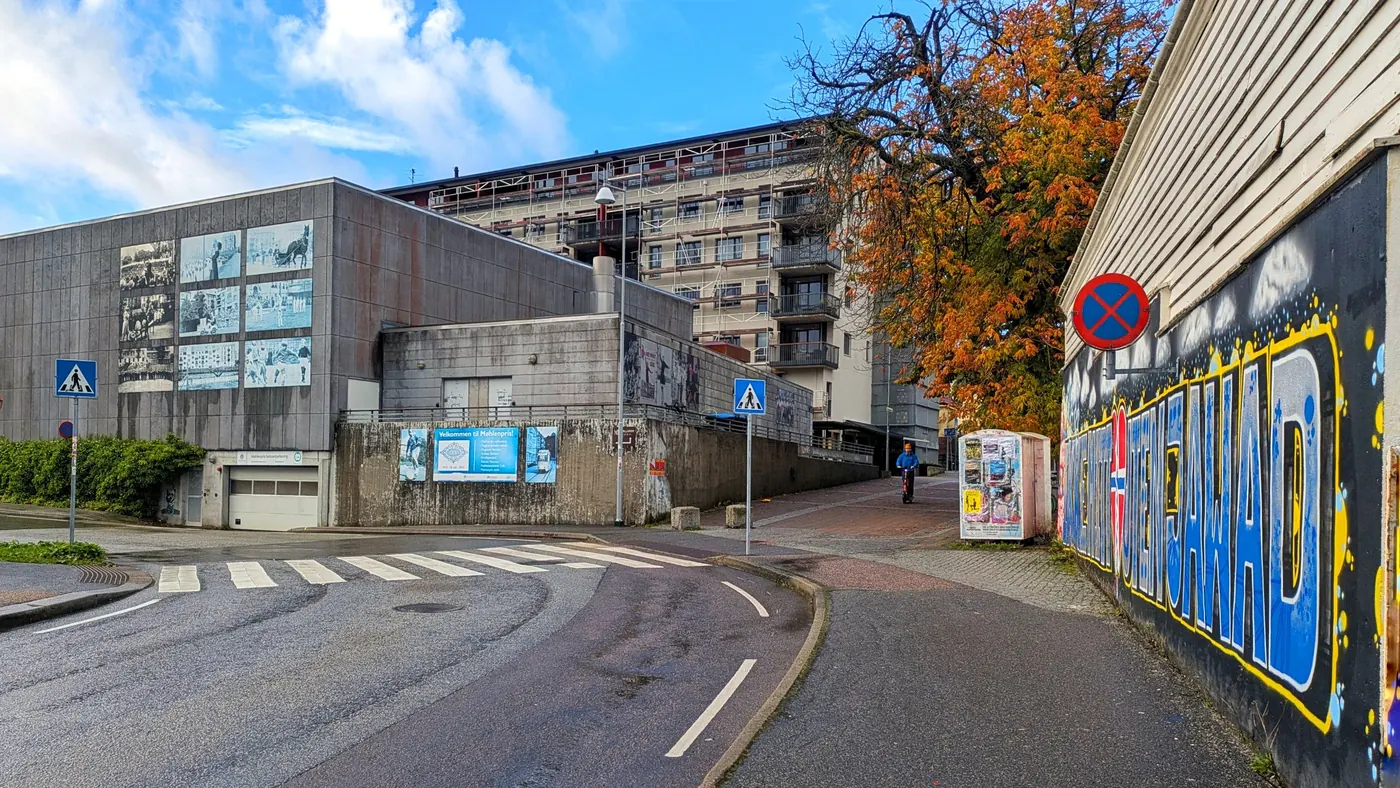
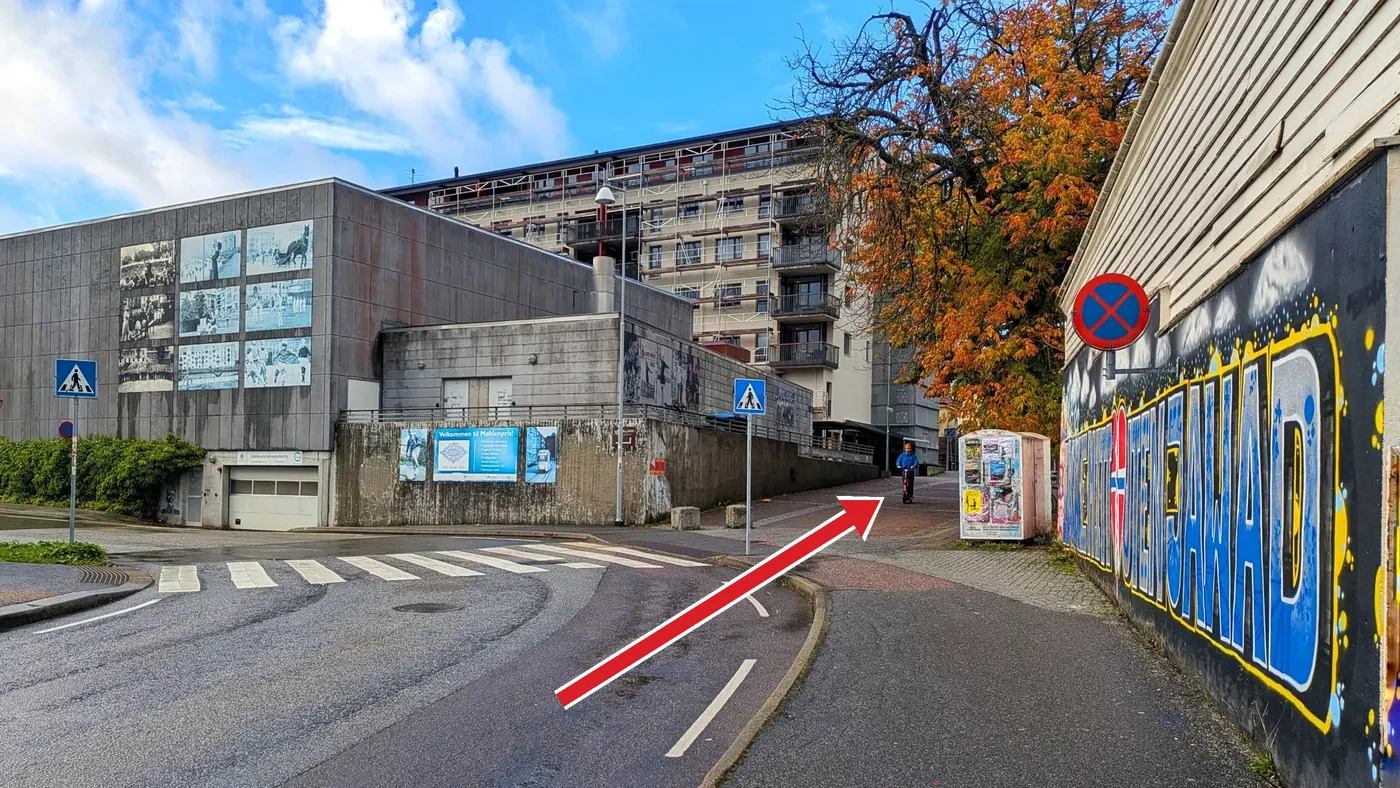
New route maps, fixed address

Changed region(s): [[0.3993, 0.6091, 0.645, 0.9137]]

diff --git a/src/app/components/StudioInfo.tsx b/src/app/components/StudioInfo.tsx
@@ -23,14 +23,14 @@ const T = {
     findTitle: "Slik finner du oss",
     findSub: "Møllaren Frivilligsentral, Wolffs gate 12, Bergen",
     routeTitle: "Velg hvor du kommer fra",
-    mapCaps: { florida: "Kart: gangvei fra Florida (ca. 9 min)", moehlenpris: "Kart: gangvei fra Møhlenpris (ca. 6 min)" },
+    mapCaps: { florida: "Fra Florida: langs veien ca. 580 m · 7 min (hel linje) – gjennom parken ca. 680 m · 8 min (stiplet)", moehlenpris: "Fra Møhlenpris: ca. 440 m · 5 min" },
     tabs: ["Fra Florida", "Fra Møhlenpris"],
     routeCaps: {
-      florida: ["Gangveien opp mot Vitalitetsenteret", "Krysset og gangveien opp til inngangen"],
-      moehlenpris: ["Hjørnet ved Vitalitetsenteret"],
+      florida: ["Gå opp gangveien", "Ved krysset: fortsett opp"],
+      moehlenpris: ["Gå mot Vitalitetsenteret"],
     },
     insideTitle: "Inne i bygget",
-    steps: ["Inngang A – Vitalitetsenteret", "Gå gjennom gangen", "Døren til salen", "Salen"],
+    steps: ["Inngang A", "Gå gjennom gangen", "Døren til salen", "Salen"],
     zoomHint: "Trykk på et bilde for å forstørre",
     close: "Lukk",
     fbTitle: "Bli med i Facebook-gruppen",
@@ -50,14 +50,14 @@ const T = {
     findTitle: "How to find us",
     findSub: "Møllaren Frivilligsentral, Wolffs gate 12, Bergen",
     routeTitle: "Choose where you are coming from",
-    mapCaps: { florida: "Map: walking route from Florida (approx. 9 min)", moehlenpris: "Map: walking route from Møhlenpris (approx. 6 min)" },
+    mapCaps: { florida: "From Florida: along the road approx. 580 m · 7 min (solid line) – through the park approx. 680 m · 8 min (dashed)", moehlenpris: "From Møhlenpris: approx. 440 m · 5 min" },
     tabs: ["From Florida", "From Møhlenpris"],
     routeCaps: {
-      florida: ["The footpath up towards Vitalitetsenteret", "The crossing and the footpath up to the entrance"],
-      moehlenpris: ["The corner by Vitalitetsenteret"],
+      florida: ["Walk up the footpath", "At the crossing: keep going up"],
+      moehlenpris: ["Walk towards Vitalitetsenteret"],
     },
     insideTitle: "Inside the building",
-    steps: ["Entrance A – Vitalitetsenteret", "Walk through the corridor", "The door to the hall", "The hall"],
+    steps: ["Entrance A", "Walk through the corridor", "The door to the hall", "The hall"],
     zoomHint: "Tap a photo to enlarge it",
     close: "Close",
     fbTitle: "Join the Facebook group",
@@ -77,14 +77,14 @@ const T = {
     findTitle: "Як нас знайти",
     findSub: "Møllaren Frivilligsentral, Wolffs gate 12, Берген",
     routeTitle: "Оберіть, звідки ви йдете",
-    mapCaps: { florida: "Мапа: пішки від Florida (близько 9 хв)", moehlenpris: "Мапа: пішки від Møhlenpris (близько 6 хв)" },
+    mapCaps: { florida: "Від Florida: дорогою ≈ 580 м · 7 хв (суцільна лінія) – через парк ≈ 680 м · 8 хв (пунктир)", moehlenpris: "Від Møhlenpris: ≈ 440 м · 5 хв" },
     tabs: ["Від Florida", "Від Møhlenpris"],
     routeCaps: {
-      florida: ["Пішохідна доріжка вгору до Vitalitetsenteret", "Перехрестя та доріжка вгору до входу"],
-      moehlenpris: ["Ріг біля Vitalitetsenteret"],
+      florida: ["Ідіть угору доріжкою", "На перехресті: далі вгору"],
+      moehlenpris: ["Йдіть до Vitalitetsenteret"],
     },
     insideTitle: "Всередині будівлі",
-    steps: ["Вхід A – Vitalitetsenteret", "Пройдіть коридором", "Двері до залу", "Зал"],
+    steps: ["Вхід A", "Пройдіть коридором", "Двері до залу", "Зал"],
     zoomHint: "Натисніть на фото, щоб збільшити",
     close: "Закрити",
     fbTitle: "Приєднуйтесь до групи у Facebook",
@@ -196,17 +196,13 @@ export function StudioInfo({ lang }: { lang: string }) {
           <div className="w-full max-w-3xl mx-auto mb-3 md:mb-5">
             <Photo key={MAPS[route]} file={MAPS[route]} caption={t.mapCaps[route]} onOpen={open} />
           </div>
-          <div className={`w-full grid gap-3 md:gap-5 mb-6 md:mb-10 ${ROUTES[route].length > 1 ? "grid-cols-1 sm:grid-cols-2" : "grid-cols-1 max-w-xl mx-auto"}`}>
-            {ROUTES[route].map((f, i) => (
-              <Photo key={f} file={f} caption={t.routeCaps[route][i]} onOpen={open} />
-            ))}
-          </div>
-
-          {/* ВСЕРЕДИНІ: вхід → коридор → двері → зал */}
-          <h3 className="text-white/90 font-bold uppercase tracking-widest text-[11px] md:text-sm text-center mb-3">{t.insideTitle}</h3>
-          <div className="w-full grid grid-cols-1 sm:grid-cols-2 gap-3 md:gap-5">
-            {INSIDE.map((f, i) => (
-              <Photo key={f} file={f} caption={t.steps[i]} num={i + 1} onOpen={open} />
+          {/* ОДНА нумерована послідовність: дорога → вхід → коридор → двері → зал (усі фото 16:9, зі стрілками) */}
+          <div className="w-full grid grid-cols-1 sm:grid-cols-2 gap-3 md:gap-5 sm:[&>*:last-child:nth-child(odd)]:col-span-2 sm:[&>*:last-child:nth-child(odd)]:w-1/2 sm:[&>*:last-child:nth-child(odd)]:mx-auto">
+            {[
+              ...ROUTES[route].map((f, i) => ({ f, cap: t.routeCaps[route][i] })),
+              ...INSIDE.map((f, i) => ({ f, cap: t.steps[i] })),
+            ].map(({ f, cap }, i) => (
+              <Photo key={f} file={f} caption={cap} num={i + 1} onOpen={open} />
             ))}
           </div>
           <p className="text-white/50 text-[10px] md:text-xs text-center mt-4">{t.zoomHint}</p>

diff --git a/src/app/components/MapSection.tsx b/src/app/components/MapSection.tsx
@@ -115,7 +115,7 @@ export function MapSection({ lang = "no" }: { lang?: string }) {
             <div className="map-iframe-wrapper">
               <iframe
                 title="Kart: Møllaren Frivilligsentral, Wolffs gate 12, Bergen"
-                src={`https://maps.google.com/maps?q=${encodeURIComponent(displayAddress)}&t=&z=17&ie=UTF8&iwloc=&output=embed`}
+                src={`https://maps.google.com/maps?q=${encodeURIComponent(displayAddress)}&ll=60.3828628,5.3232897&t=&z=17&ie=UTF8&iwloc=&output=embed`}
                 allowFullScreen
                 loading="lazy"
               ></iframe>
